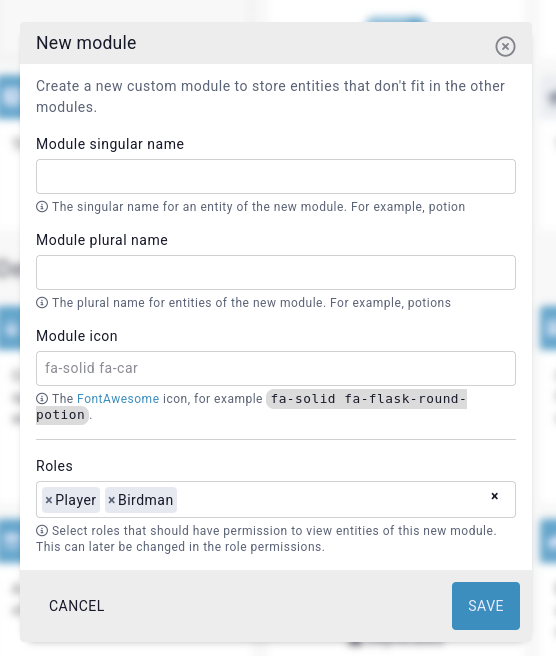
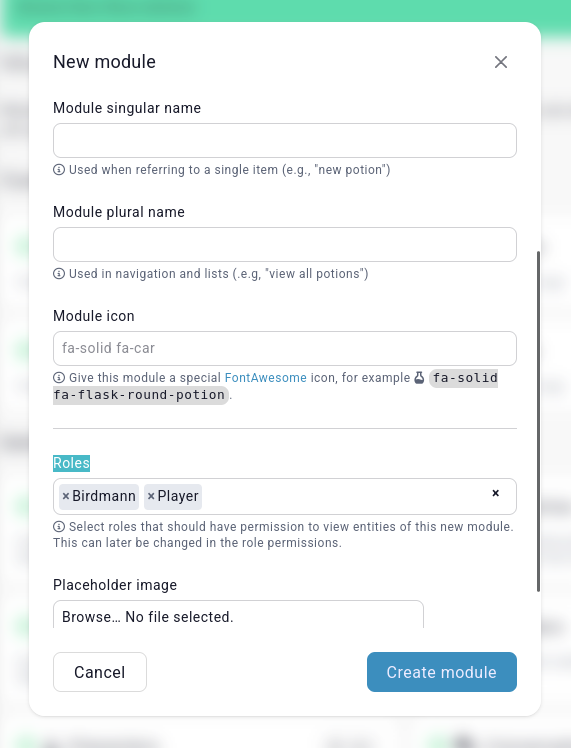
Update screenshots and info about modules

diff --git a/docs/features/campaigns/modules.md b/docs/features/campaigns/modules.md
@@ -23,7 +23,7 @@ If a campaign loses its premium status, existing custom modules remain accessibl
 
 ## Default modules
 
-Each world comes with the afromentioned pre-determined default modules, and they are automatically all enabled, except for the deprecated [conversations](/entities/conversations) and [dice rolls](/entities/dice-rolls) modules.
+Each world comes with the aforementioned pre-determined default modules, and they are automatically all enabled, except for the deprecated [conversations](/entities/conversations) and [dice rolls](/entities/dice-rolls) modules.
 
 ```{admonition} Info
 Disabling an entity type doesn't delete the related data from the campaign. Instead, it is simply **hidden**. Only members of the campaign's admin role can enable or disable modules.
@@ -31,11 +31,11 @@ Disabling an entity type doesn't delete the related data from the campaign. Inst
 
 ### Customising module names and icons
 
-If you'd rather the [Race](/entities/races) module be named `Folk` throughout your Kanka campaign, you can do so. Click on the cog wheel in the module's box you want to change.
+If you'd rather the [Race](/entities/races) module be named `Folk` throughout your Kanka campaign, you can do so. Click on the edit button in the module's box you want to change.
 
-![Cog wheel icon](img/modules-cog.png)
+![Edit button](img/modules-cog.png)
 
-This brings up an interface to update the module's singular and plural name, as well as its icon. This works well for English and non-gendered languages, but will lead to weird sentences in every other one. 
+This brings up an interface to update the module's status, singular and plural name, icon, and lastly it's placeholder image. Renaming a module works well for English and non-gendered languages, but will lead to weird sentences in the UI for some others, where assumptions are made about the gender of the module's default name. 
 
 ![Customise a module](img/modules-config.png)
 
